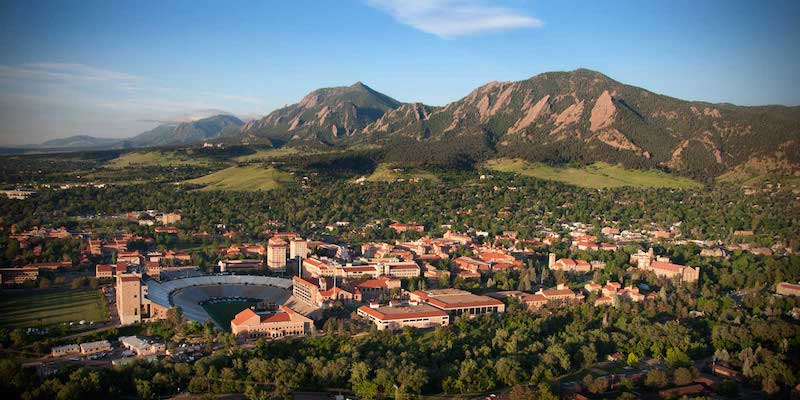
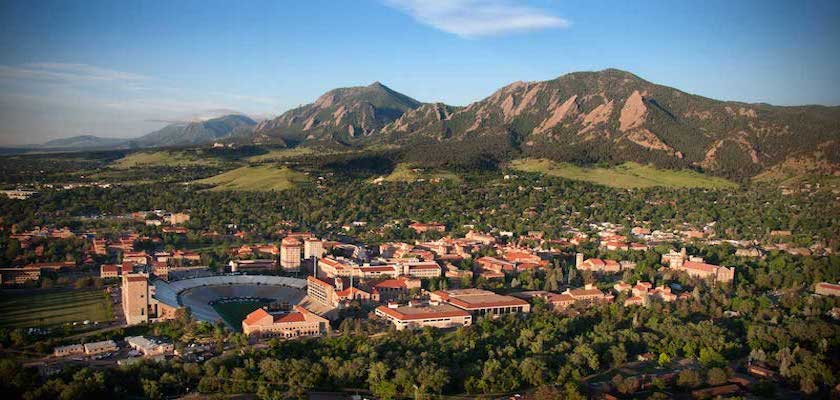
update to skills, fix of cu image for sizing

diff --git a/src/skills.tsx b/src/skills.tsx
@@ -7,28 +7,45 @@ const Skills = () => {
         // TODO: fix size of column on mobile for non horizontal list
         <BaseContainer>
             <h1>Skills</h1>
+            <h2>Profeciency</h2>
+            <Col lg='12'>
+                <ListGroup horizontal={'lg'}>
+                    <ListGroup.Item variant='success'>
+                        Expert
+                    </ListGroup.Item>
+                    <ListGroup.Item variant='primary'>
+                        Advanced
+                    </ListGroup.Item>
+                    <ListGroup.Item variant='secondary'>
+                        Intermediate 
+                    </ListGroup.Item>
+                    <ListGroup.Item>
+                        Novice
+                    </ListGroup.Item>
+                </ListGroup>
+            </Col>
             <h2>Languages</h2>
             <Col lg='12'>
                 <ListGroup horizontal={'lg'}>
-                    <ListGroup.Item>
+                    <ListGroup.Item variant='primary'>
                         <Image src='/static/logo/python.png' width='50px' height='50px'></Image>
                     </ListGroup.Item>
-                    <ListGroup.Item>
+                    <ListGroup.Item variant='success'>
                         <Image src='/static/logo/typescript.png' width='50px' height='50px'></Image>
                     </ListGroup.Item>
-                    <ListGroup.Item>
+                    <ListGroup.Item variant='primary'>
                         <Image src='/static/logo/bash.png' width='50px' height='50px'></Image>
                     </ListGroup.Item>
-                    <ListGroup.Item>
+                    <ListGroup.Item variant='primary'>
                         <Image src='/static/logo/csharp.png' width='50px' height='50px'></Image>
                     </ListGroup.Item>
-                    <ListGroup.Item>
+                    <ListGroup.Item variant='primary'>
                         <Image src='/static/logo/latex.png' width='50px' height='50px'></Image>
                     </ListGroup.Item>
-                    <ListGroup.Item>
+                    <ListGroup.Item variant='secondary'>
                         <Image src='/static/logo/sql.png' width='50px' height='50px'></Image>
                     </ListGroup.Item>
-                    <ListGroup.Item>
+                    <ListGroup.Item variant='secondary'>
                         <Image src='/static/logo/java.png' width='50px' height='50px'></Image>
                     </ListGroup.Item>
                     <ListGroup.Item>
@@ -39,31 +56,31 @@ const Skills = () => {
             <h2>Tools</h2>
             <Col lg='12'>
                 <ListGroup horizontal={'lg'}>
-                    <ListGroup.Item>
+                    <ListGroup.Item variant='success'>
                         <Image src='/static/logo/jupyter.png' width='50px' height='50px'></Image>
                     </ListGroup.Item>
-                    <ListGroup.Item>
-                        <Image src='/static/logo/npm.png' width='75px' height='50px'></Image>
+                    <ListGroup.Item variant='primary'>
+                        <Image src='/static/logo/npm.png' width='100px' height='50px'></Image>
                     </ListGroup.Item>
-                    <ListGroup.Item>
+                    <ListGroup.Item variant='primary'>
                         <Image src='/static/logo/nodejs.png' width='60px' height='50px'></Image>
                     </ListGroup.Item>
-                    <ListGroup.Item>
+                    <ListGroup.Item variant='secondary'>
                         <Image src='/static/logo/tensorflow.png' width='50px' height='50px'></Image>
                     </ListGroup.Item>
-                    <ListGroup.Item>
+                    <ListGroup.Item variant='primary'>
                         <Image src='/static/logo/numpy.png' width='100px' height='50px'></Image>
                     </ListGroup.Item>
-                    <ListGroup.Item>
+                    <ListGroup.Item variant='primary'>
                         <Image src='/static/logo/git.png' width='50px' height='50px'></Image>
                     </ListGroup.Item>
-                    <ListGroup.Item>
+                    <ListGroup.Item variant='success'>
                         <Image src='/static/logo/jest.png' width='50px' height='50px'></Image>
                     </ListGroup.Item>
-                    <ListGroup.Item>
+                    <ListGroup.Item variant='success'>
                         <Image src='/static/logo/webpack.png' width='50px' height='50px'></Image>
                     </ListGroup.Item>
-                    <ListGroup.Item>
+                    <ListGroup.Item variant='secondary'>
                         <Image src='/static/logo/react.png' width='50px' height='50px'></Image>
                     </ListGroup.Item>
                     <ListGroup.Item>
@@ -77,13 +94,13 @@ const Skills = () => {
             <h2>Platforms</h2>
             <Col lg='12'>
                 <ListGroup horizontal={'lg'}>
-                    <ListGroup.Item>
+                    <ListGroup.Item variant='secondary'>
                         <Image src='/static/logo/azure.png' width='50px' height='50px'></Image>
                     </ListGroup.Item>
-                    <ListGroup.Item>
+                    <ListGroup.Item variant='primary'>
                         <Image src='/static/logo/dotnet.png' width='50px' height='50px'></Image>
                     </ListGroup.Item>
-                    <ListGroup.Item>
+                    <ListGroup.Item variant='secondary'>
                         <Image src='/static/logo/aws.png' width='50px' height='50px'></Image>
                     </ListGroup.Item>
                 </ListGroup>

diff --git a/src/experience.tsx b/src/experience.tsx
@@ -33,7 +33,8 @@ const Experience = () => {
                 <div>
                     <p>Part of Full Stack Development Team</p>
                     <ul>
-                        <li></li>
+                        <li>Developed, Designed and maintained Typecript API for interacting with 3d, pdf, images and structured data in browser</li>
+                        <li>Implemented code-splitting to improve performance of our javascript load times initial load times</li>
                     </ul>
                 </div>
             )}
@@ -44,7 +45,9 @@ const Experience = () => {
                     <p>Member of AMGeO Organization, headed by <a href="https://www.colorado.edu/aerospace/tomoko-matsuo">Tomoko Matsuo</a></p>
                     <ul>
                         <li>Presented at Earthcube 2021</li>
+                        <li>Helped in hosting JupyterHub workshop for AMGeO on AWS</li>
                         <li>Developed API for interfacing with AMGeO through python</li>
+                        <li>Presented at AGU 2020</li>
                     </ul>
                 </div>
             )}
@@ -52,7 +55,8 @@ const Experience = () => {
                 "Full Stack Software Engineer 1",
                 "Anark Corporation, July 2020-Nov 2020",
                 <ul>
-                    <li>Developed</li>
+                    <li>Jest Puppeteer</li>
+                    <li>Bundled our api using webpack for using across our code base</li>
                 </ul>
             )}
             {DarkCard(
@@ -64,14 +68,7 @@ const Experience = () => {
             )}
             {DarkCard(
                 "Undergraduate Research Assistant/Developer",
-                "CU Boulder Aerospace, Aug 2019-May 2020",
-                <ul>
-                    <li>Developed</li>
-                </ul>
-            )}
-            {DarkCard(
-                "Software Developer",
-                "CU Boulder, Jan 2020-May 2020",
+                "CU Boulder Aerospace, Jan 2019-May 2019, Aug 2019 - Dec 2019",
                 <ul>
                     <li>Developed</li>
                 </ul>
@@ -84,14 +81,7 @@ const Experience = () => {
                     <text>Jan 2019-May 2019, Aug 2019 - Dec 2019</text>
                 </div>,
                 <ul>
-                    <li>Developed</li>
-                </ul>
-            )}
-            {DarkCard(
-                "Undergraduate Research Assistant/Developer",
-                "CU Boulder Aerospace, Jan 2019-May 2019, Aug 2019 - Dec 2019",
-                <ul>
-                    <li>Developed</li>
+                    <li></li>
                 </ul>
             )}
         </BaseContainer>
